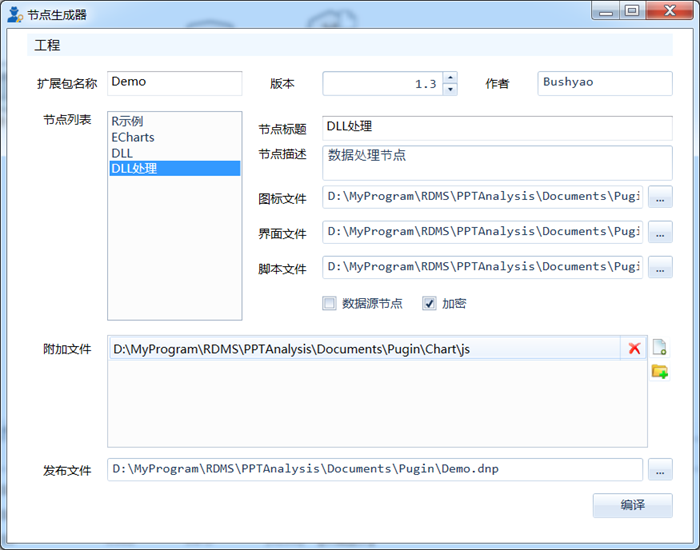
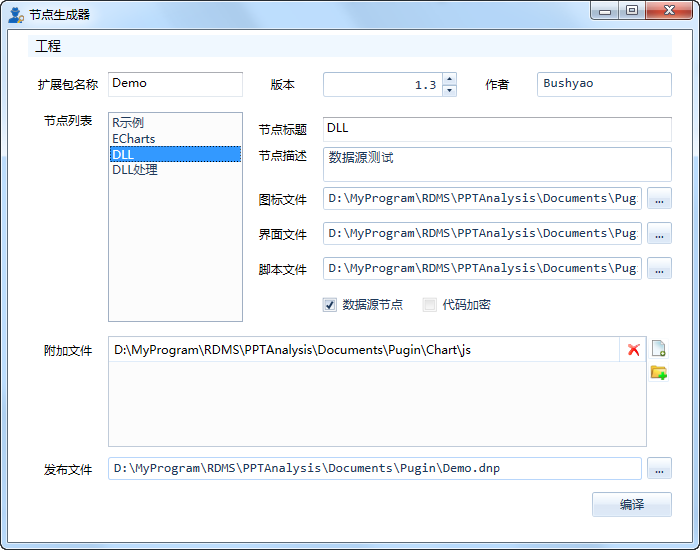
x
x

diff --git a/advance/NodeExpend.rst b/advance/NodeExpend.rst
@@ -527,17 +527,13 @@ Echarts
     :figwidth: 90% 
     :name: plate
 
-.. warning::
-   
-   对于DLL数据源扩展节点，请勾选数据源节点；
-	
-核心数据项验证机制
+.. note::
 
-.. figure:: images/NodeExpend07.png
-    :align: center
-    :figwidth: 90% 
-    :name: plate
-  
+   * 界面HTML、脚本文件请使用UTF8编码格式；
+   * 对于DLL数据源扩展节点，请勾选数据源节点；
+   * 对于R和Echarts扩展节点，请设置勾选代码加密，以便保护您的代码。
+	
+
 添加扩展包
 -----------------------------------
 
